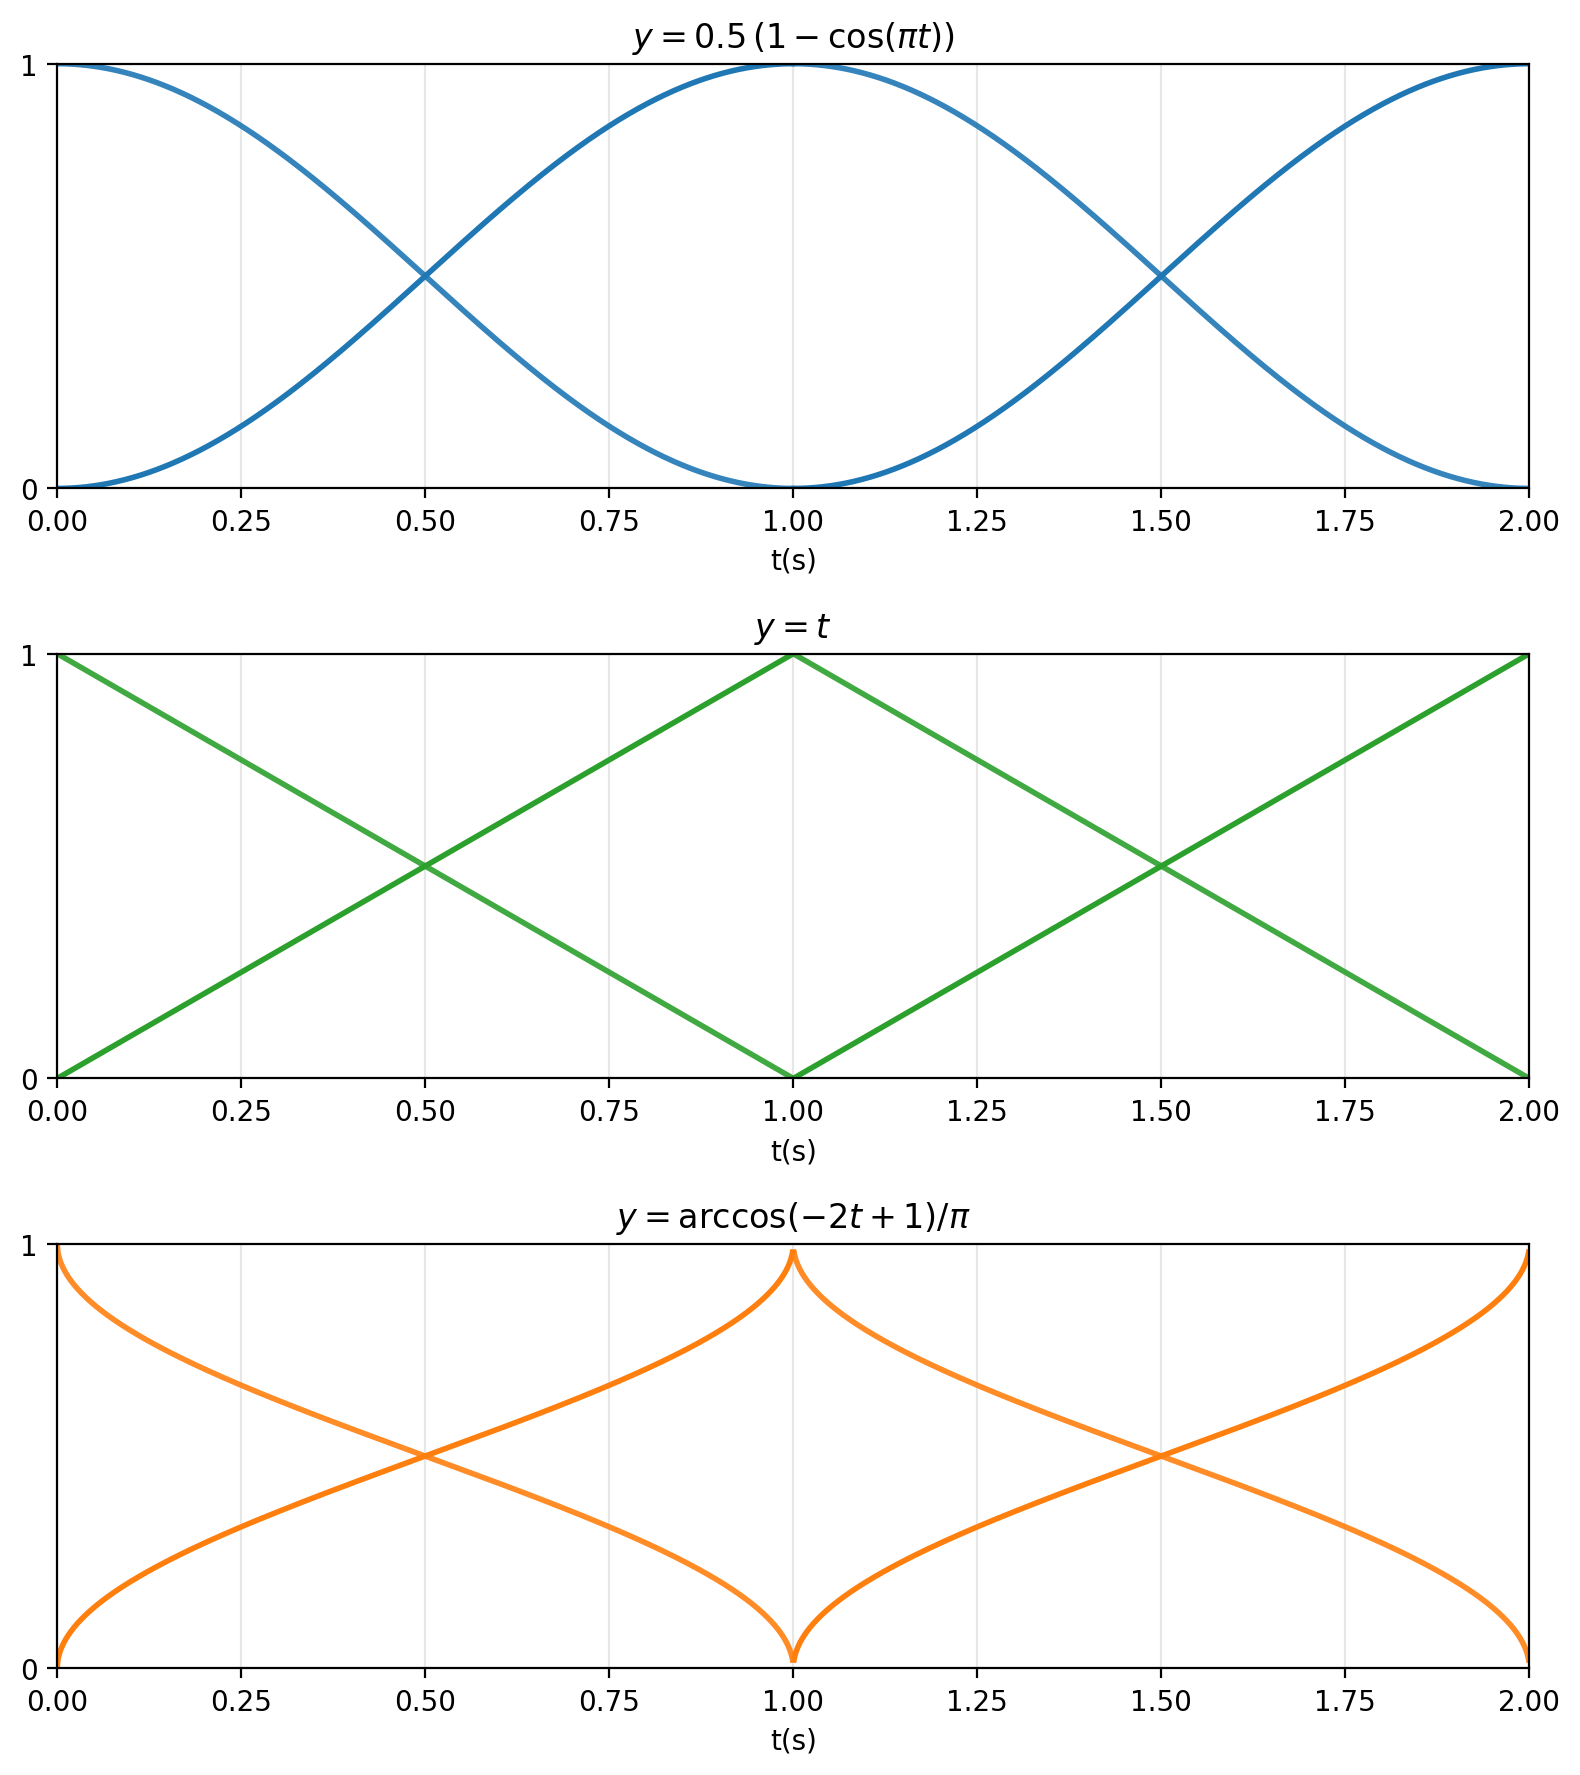
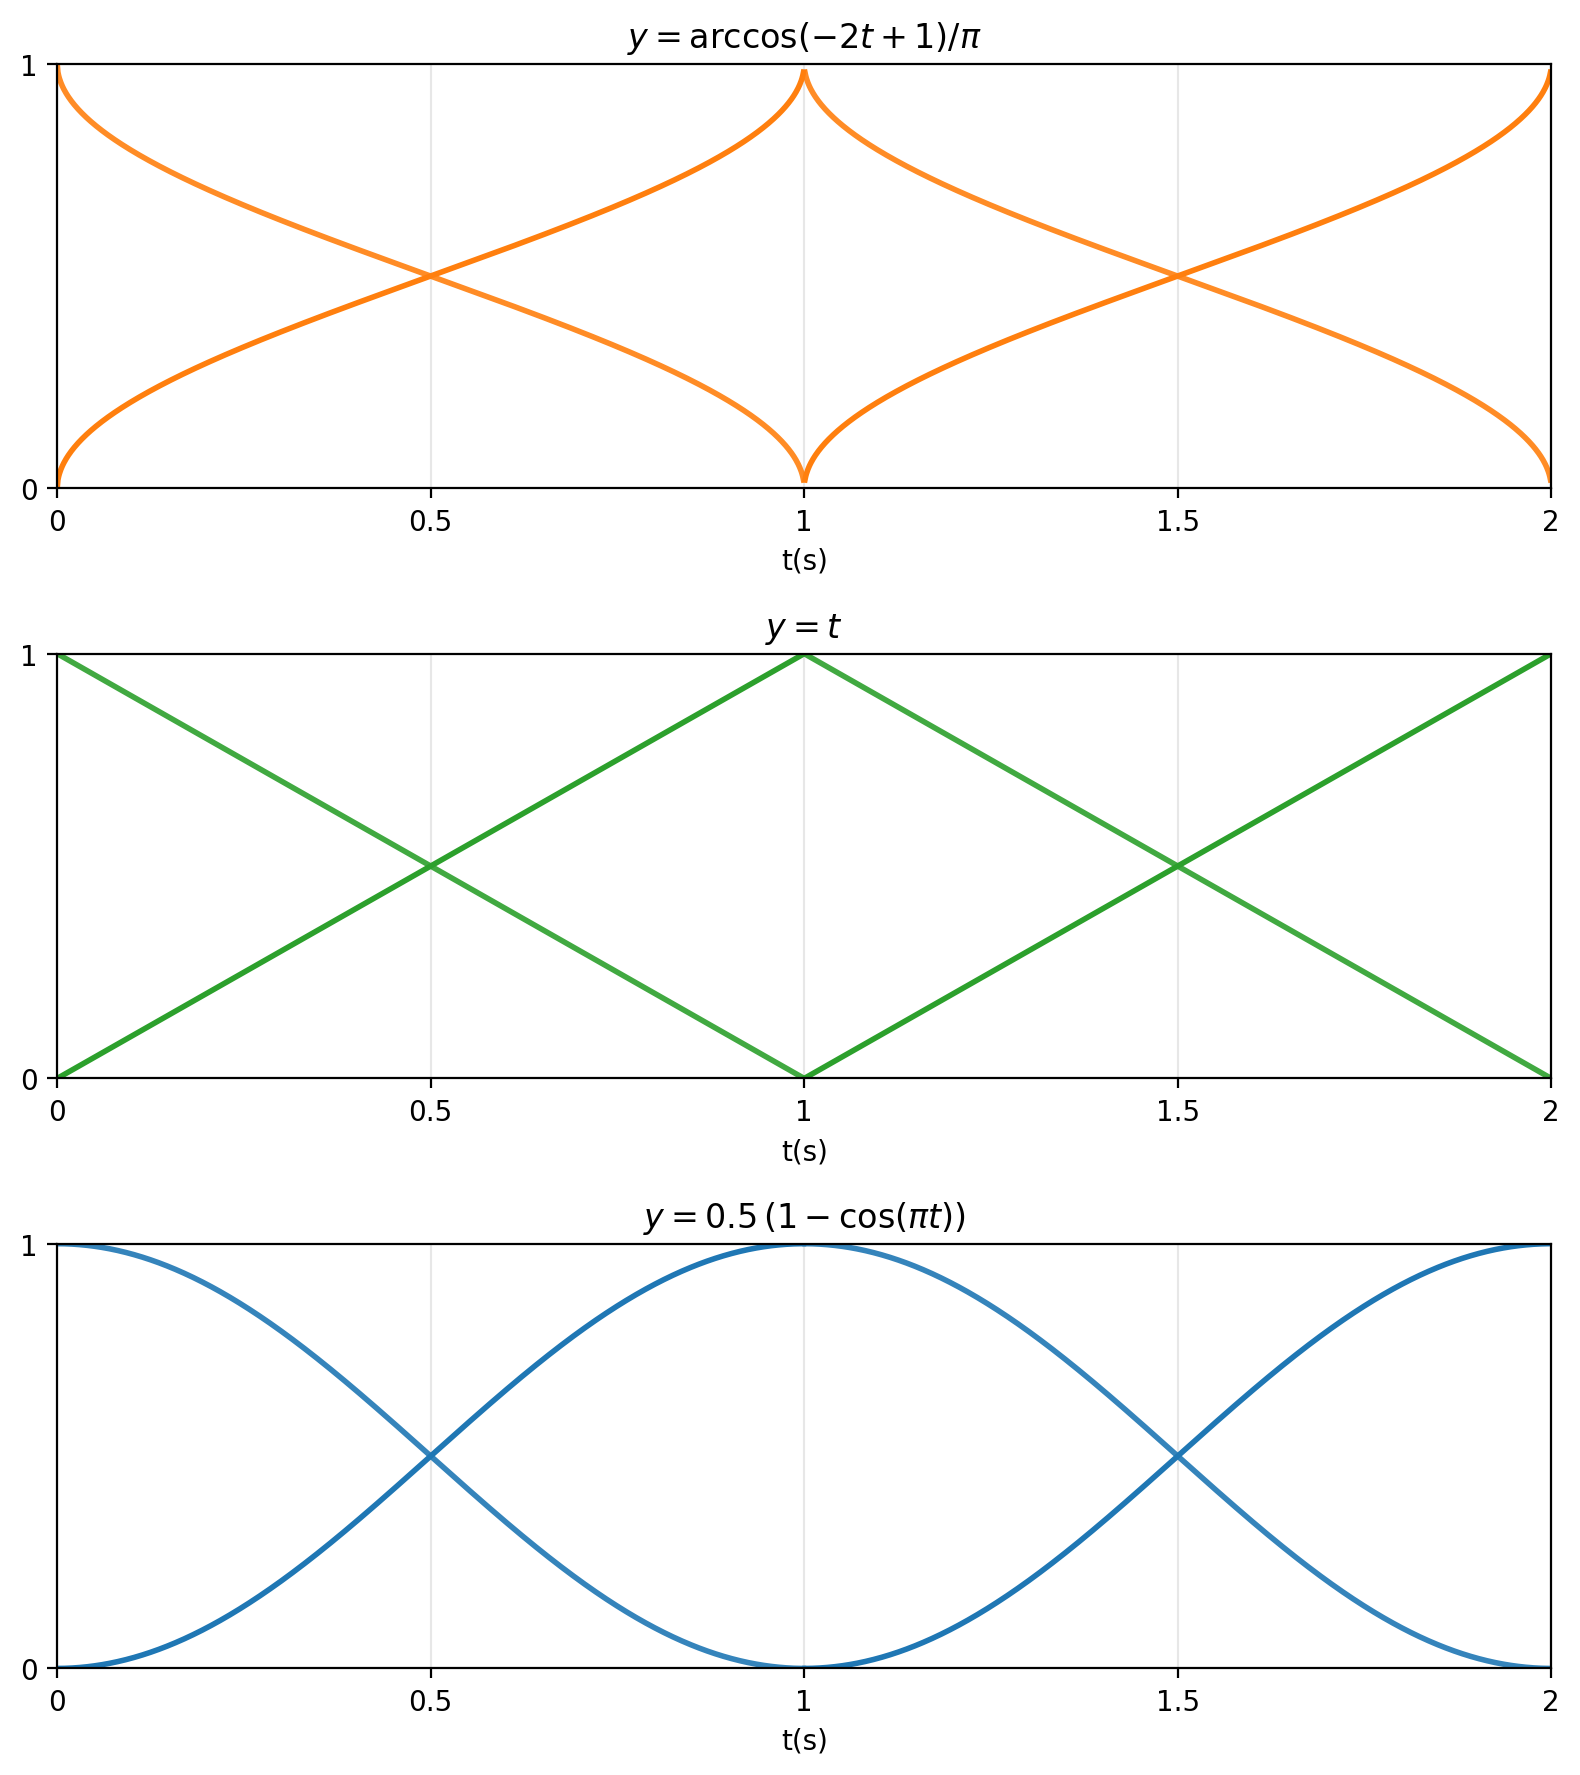
sfsdf

diff --git a/velocity_curve_analysis/function_mix_analysis_no_subcurve.py b/velocity_curve_analysis/function_mix_analysis_no_subcurve.py
@@ -1,0 +1,301 @@
+import pandas as pd
+import numpy as np
+import matplotlib.pyplot as plt
+import matplotlib.lines as mlines
+import os
+import glob
+from pathlib import Path
+from matplotlib.legend_handler import HandlerTuple, HandlerErrorbar
+from matplotlib.container import ErrorbarContainer
+
+
+# 设置中文字体
+plt.rcParams['font.sans-serif'] = ['SimHei', 'DejaVu Sans']
+plt.rcParams['axes.unicode_minus'] = False
+
+def load_function_mix_data(data_dir):
+    """加载FunctionMix数据"""
+    pattern = os.path.join(data_dir, "*ExperimentPattern_FunctionMix_ParticipantName_*.csv")
+    files = glob.glob(pattern)
+    
+    all_data = {}
+    for file in files:
+        # 从文件名提取参与者信息
+        filename = os.path.basename(file)
+        parts = filename.split('_')
+        
+        # 提取参与者名称
+        participant_idx = parts.index('ParticipantName') + 1
+        participant = parts[participant_idx]
+        
+        # 提取试验编号
+        trial_idx = parts.index('TrialNumber') + 1
+        trial_str = parts[trial_idx]
+        if trial_str.endswith('.csv'):
+            trial_str = trial_str.replace('.csv', '')
+        trial = int(trial_str)
+        
+        try:
+            df = pd.read_csv(file)
+            # 清理列名
+            df.columns = df.columns.str.strip()
+            df['Participant'] = participant
+            df['Trial'] = trial
+            df['Filename'] = filename
+            
+            if participant not in all_data:
+                all_data[participant] = {}
+            all_data[participant][trial] = df
+            
+            print(f"加载成功: {filename} - 参与者: {participant}, 试验: {trial}")
+        except Exception as e:
+            print(f"加载错误: {filename} - {e}")
+    
+    return all_data
+
+def plot_mixing_functions(ax, function_type, direction='forward'):
+    """绘制混合函数"""
+    x = np.linspace(0, 1, 100)
+    
+    if function_type == 'cos':
+        if direction == 'forward':
+            # cos: 0.5f * (1f - Mathf.Cos(Mathf.PI * x)) - 从0到1
+            y = 0.5 * (1 - np.cos(np.pi * x))
+        else:
+            # 从1到0变化
+            y = 0.5 * (1 + np.cos(np.pi * x))
+        title = 'Cos'
+        color = 'green'
+    elif function_type == 'linear':
+        if direction == 'forward':
+            # linear: x - 从0到1
+            y = x
+        else:
+            # 从1到0变化
+            y = 1 - x
+        title = 'Linear'
+        color = 'blue'
+    elif function_type == 'acos':
+        if direction == 'forward':
+            # acos: Mathf.Acos(-2f * x + 1f) / Mathf.PI - 从0到1
+            y = np.arccos(-2 * x + 1) / np.pi
+        else:
+            # 从1到0变化
+            y = 1 - np.arccos(-2 * x + 1) / np.pi
+        title = 'Acos '
+        color = 'darkred'
+    
+    ax.plot(x, y, color=color, linewidth=2)
+    ax.set_xlabel('t')
+    ax.set_ylabel('')
+    ax.set_title('')  # 移除标题
+    ax.grid(True, alpha=0.3)
+    ax.set_xlim(0, 1)
+    ax.set_ylim(0, 1)
+    ax.set_xticks([])  # 不显示任何横轴刻度
+    ax.set_yticks([0, 1])
+
+def extract_final_function_ratio(df):
+    """提取最终的FunctionRatio值"""
+    # 取最后20%的数据的平均值作为最终值
+    final_data = df.tail(int(len(df) * 0.2))
+    final_ratio = final_data['FunctionRatio'].iloc[-1]
+    return final_ratio
+
+def create_function_mix_plot(data_dir):
+    """创建FunctionMix分析图"""
+    print("加载FunctionMix数据...")
+    function_mix_data = load_function_mix_data(data_dir)
+    
+    if not function_mix_data:
+        print("没有找到FunctionMix数据")
+        return
+    
+    # 参与者顺序（根据截图）
+    participants_order = ['ONO', 'OMU', 'YAMA', 'HOU', 'LL']
+    participant_labels = ['A', 'B', 'C', 'D', 'E']
+    
+    # 创建图形：只保留右侧参与者数据散点图
+    fig = plt.figure(figsize=(12, 6))  # 宽度调整，去掉左侧空间
+    # 设置透明背景
+    fig.patch.set_facecolor('none')
+    fig.patch.set_alpha(0.0)
+    ax4 = plt.subplot(111)  # 单个子图占满整个图形
+    ax4.set_facecolor('none')
+    ax4.patch.set_alpha(0.0)
+    
+    # 收集所有数据用于计算y轴范围
+    all_ratios = []
+    
+    # 为每个参与者绘制散点图
+    # ABC使用一个颜色，DE使用另一个颜色
+    colors = ['#1f77b4', '#1f77b4', '#1f77b4', '#ff7f0e', '#ff7f0e']  # ABC蓝色，DE橙色
+    
+    error_legend_handle = None
+    for i, (participant, label) in enumerate(zip(participants_order, participant_labels)):
+        if participant in function_mix_data:
+            trials = function_mix_data[participant]
+            
+            # 提取每个试验的最终FunctionRatio值
+            ratios = []
+            for trial_num in sorted(trials.keys()):
+                df = trials[trial_num]
+                final_ratio = extract_final_function_ratio(df)
+                ratios.append(final_ratio)
+                all_ratios.append(final_ratio)
+            
+            # 计算中位数和误差
+            median_ratio = np.median(ratios)
+            std_ratio = np.std(ratios)
+            sem_ratio = std_ratio / np.sqrt(len(ratios))  # 标准误差
+            
+            # 绘制散点图，错开位置避免重叠
+            x_positions = np.linspace(-0.15, 0.15, len(ratios))  # 在标签位置左右错开
+            x_coords = [i + x_pos for x_pos in x_positions]
+            
+            # 绘制散点图（只在第一次绘制时添加标签用于图例）
+            if i == 0:
+                scatter = ax4.scatter(x_coords, ratios, color=colors[i], alpha=0.7, s=60, edgecolors='white', linewidth=1, label='Individual trials')
+            else:
+                ax4.scatter(x_coords, ratios, color=colors[i], alpha=0.7, s=60, edgecolors='white', linewidth=1)
+            
+            # 绘制中位数线和误差条（只在第一次绘制时添加标签用于图例）
+            if i == 0:
+                median_line = ax4.plot([i], [median_ratio], 'o', color=colors[i], markersize=10, markeredgecolor='black', markeredgewidth=2, label='Median')[0]
+                error_legend_handle = ax4.errorbar([i], [median_ratio], yerr=sem_ratio, color=colors[i], capsize=5, capthick=2, linewidth=2)
+            else:
+                ax4.plot([i], [median_ratio], 'o', color=colors[i], markersize=10, markeredgecolor='black', markeredgewidth=2)
+                ax4.errorbar([i], [median_ratio], yerr=sem_ratio, color=colors[i], capsize=5, capthick=2, linewidth=2)
+    
+    # 设置子图的属性
+    ax4.set_xlabel('Participant')
+    ax4.set_ylabel('')  # 去掉纵轴标签
+    ax4.set_title('Preferred mixing ratio by participant (median ± 95% CI)')
+    ax4.grid(False)  # 移除网格
+    ax4.set_xticks(range(len(participant_labels)))
+    ax4.set_xticklabels(participant_labels)
+    ax4.set_yticks([0.0, 0.1, 0.5, 0.9, 1.0])  # 只显示指定的刻度值
+    
+    # 合并图例（颜色分组的 trial + 实验元素说明）
+    blue_color = '#1f77b4'
+    orange_color = '#ff7f0e'
+    # 颜色分组的 trial 代理
+    h_trial_blue = mlines.Line2D([], [], color=blue_color, marker='o', linestyle='None', markersize=6, label='Trial (Acos preference group)')
+    h_trial_orange = mlines.Line2D([], [], color=orange_color, marker='o', linestyle='None', markersize=6, label='Trial (Cos preference group)')
+    # 实验元素代理
+    h_median_blue = mlines.Line2D([], [], color=blue_color, marker='o', linestyle='None', markersize=8, markeredgecolor='black', markeredgewidth=2, label='Median (outlined dot)')
+    h_median_orange = mlines.Line2D([], [], color=orange_color, marker='o', linestyle='None', markersize=8, markeredgecolor='black', markeredgewidth=2, label='')
+    # 图例中的误差棒：垂直 yerr，带端帽；中心用小的空心圆点，提升辨识度（仅用于图例，空数据不绘制到图上）
+    h_error = ax4.errorbar(
+        [0], [0], yerr=[[0.05], [0.05]],
+        fmt='o', mfc='white', mec='black', mew=1.2, ms=5,
+        ecolor='black', elinewidth=2, capsize=5, capthick=2,
+        label='Error bar (95% CI)'
+    )
+    # 2) 建立图例，让它把这条误差棒当作示例（会自动绘制竖线+上下短横线）
+    leg = ax4.legend(handler_map={type(h_error): HandlerErrorbar()})
+
+    # 3) 如果不想这条“代理误差棒”出现在图上，创建图例后把它从坐标轴移除
+    h_error[0].remove()                 # 中心的小圆点
+    for c in h_error[1]: c.remove()     # 上下两个端帽（短横线）
+    for col in h_error[2]: col.remove() # 竖直误差线(LineCollection)
+
+
+    median_pair = (h_median_blue, h_median_orange)
+    handles = [h_trial_blue, h_trial_orange, median_pair, h_error]
+    labels = ['Trial (Arccos preference group)', 'Trial (Cos preference group)', 'Median (outlined dot)', 'Error bar (95% CI)']
+    ax4.legend(
+        handles=handles,
+        labels=labels,
+        loc='upper right', bbox_to_anchor=(1.0, 1.0),
+        ncol=1, columnspacing=0.8, handletextpad=0.6, borderaxespad=0.3,
+        handler_map={tuple: HandlerTuple(ndivide=None, pad=0.3), ErrorbarContainer: HandlerErrorbar()}
+    )
+
+
+
+    # 分组强调：在 C 与 D 之间画虚线分隔（x=2.5），并在下方添加组标签
+    ax4.axvline(x=2.5, color='gray', linestyle='--', linewidth=1, alpha=0.6)
+    ax4.text(0.25, -0.12, 'A–C: Arccos preference', transform=ax4.transAxes, ha='center', va='top', fontsize=10)
+    ax4.text(0.875, -0.12, 'D–E: Cos preference', transform=ax4.transAxes, ha='center', va='top', fontsize=10)
+    
+    # 添加横线
+    horizontal_lines = [0.0, 0.1, 0.5, 0.9, 1.0]
+    for line_y in horizontal_lines:
+        if line_y in [0.0, 1.0]:
+            # 0.0和1.0的横线颜色为灰色
+            ax4.axhline(y=line_y, color='gray', alpha=0.6, linewidth=1)
+        else:
+            # 0.1, 0.5, 0.9的横线颜色为黑色
+            ax4.axhline(y=line_y, color='black', alpha=0.8, linewidth=1)
+    
+    # 在指定位置添加区域标注（统一黑色，配合背景色带）
+    ax4.text(-0.5, 0.1, 'Cos region (≤)', fontsize=10, ha='right', va='center', color='black')
+    ax4.text(-0.5, 0.5, 'Linear region (=)', fontsize=10, ha='right', va='center', color='black')
+    ax4.text(-0.5, 0.9, 'Arccos region (≥)', fontsize=10, ha='right', va='center', color='black')
+    # 移除左上角的文字说明，改为合并图例
+
+    regions = [(0.0, 0.1), (0.1, 0.5), (0.5, 0.9), (0.9, 1.0)]
+    colors  = ['#d0f0d0', '#f0f0ff', '#fff0f0', '#ffe0b3']  # 可以手工挑选
+    alphas  = [0.05, 0.2, 0.2, 0.05]  # 上下稍微深一点
+
+    for (ymin, ymax), color, a in zip(regions, colors, alphas):
+        ax4.axhspan(ymin, ymax, facecolor=color, alpha=a, zorder=0)
+
+    # 在右侧添加竖写标签
+    # 创建右侧的 twin 轴
+    ax_right = ax4.twinx()
+
+    # 设置右侧纵轴标签
+    ax_right.set_ylabel('Normalized Subjective response [arb. unit]',
+                        fontsize=12, rotation=270, labelpad=25)
+
+    # 隐藏右轴的刻度和刻度线（只保留标签）
+    ax_right.tick_params(right=False, labelright=False)
+
+    # 设置y轴范围
+    if all_ratios:
+        y_min = min(all_ratios) - 0.05
+        y_max = max(all_ratios) + 0.05
+        ax4.set_ylim(max(0, y_min), min(1, y_max))
+    
+    plt.tight_layout()
+    plt.savefig('function_mix_analysis.png', dpi=300, bbox_inches='tight', transparent=True)
+    plt.show()
+    
+    # 打印统计信息
+    print("\n=== FunctionMix分析结果 ===")
+    for i, (participant, label) in enumerate(zip(participants_order, participant_labels)):
+        if participant in function_mix_data:
+            trials = function_mix_data[participant]
+            ratios = []
+            for trial_num in sorted(trials.keys()):
+                df = trials[trial_num]
+                final_ratio = extract_final_function_ratio(df)
+                ratios.append(final_ratio)
+            
+            median_ratio = np.median(ratios)
+            mean_ratio = np.mean(ratios)
+            std_ratio = np.std(ratios)
+            
+            print(f"参与者 {label} ({participant}):")
+            print(f"  试验值: {[f'{r:.3f}' for r in ratios]}")
+            print(f"  中位数: {median_ratio:.3f}")
+            print(f"  平均值: {mean_ratio:.3f}")
+            print(f"  标准差: {std_ratio:.3f}")
+            print()
+    
+    print("FunctionMix分析图已保存为 function_mix_analysis_no_subcurve.png")
+
+def main():
+    """主函数"""
+    data_dir = "public/BrightnessFunctionMixAndPhaseData"
+    
+    if not os.path.exists(data_dir):
+        print(f"数据目录不存在: {data_dir}")
+        return
+    
+    create_function_mix_plot(data_dir)
+
+if __name__ == "__main__":
+    main() 

diff --git a/velocity_curve_analysis/SubFunctionGraphs_Cos_Acos_Linear.py b/velocity_curve_analysis/SubFunctionGraphs_Cos_Acos_Linear.py
@@ -42,23 +42,23 @@ def main() -> None:
     xticks = [0.0, 0.5, 1.0, 1.5, 2.0]
     xtick_labels = ['0', '0.5', '1', '1.5', '2']
 
-    # Plot 1: 0.5 * (1 - cos(pi * x)) and its complement (same color)
-    axes[0].plot(t, y_cos, linewidth=2.0, color=color_f1)
-    axes[0].plot(t, 1.0 - y_cos, linewidth=2.0, color=color_f1, alpha=0.9)
+    # Plot 3: arccos(-2x + 1) / pi (per period) and its complement (same color)
+    axes[0].plot(t, y_arccos, linewidth=2.0, color=color_f3)
+    axes[0].plot(t, 1.0 - y_arccos, linewidth=2.0, color=color_f3, alpha=0.9)
     axes[0].set_xlim(0.0, 2.0)
     axes[0].set_ylim(0.0, 1.0)
     axes[0].set_xlabel('t(s)')
     axes[0].set_xticks(xticks, xtick_labels)
     axes[0].set_yticks([0.0, 1.0], ['0', '1'])
     axes[0].grid(True, alpha=0.3)
-    axes[0].set_title(r"$y = 0.5\,(1 - \cos(\pi t))$")
+    axes[0].set_title(r"$y = \arccos(-2t + 1)/\pi$")
     # axes[0].legend(loc='best')
 
     # Plot 2: y = x (per period) and its complement (same color)
     axes[1].plot(t, y_linear, linewidth=2.0, color=color_f2)
     axes[1].plot(t, 1.0 - y_linear, linewidth=2.0, color=color_f2, alpha=0.9)
     axes[1].set_xlim(0.0, 2.0)
-    axes[1].t_ylim(0.0, 1.0)
+    axes[1].set_ylim(0.0, 1.0)
     axes[1].set_xlabel('t(s)')
     axes[1].set_xticks(xticks, xtick_labels)
     axes[1].set_yticks([0.0, 1.0], ['0', '1'])
@@ -66,17 +66,18 @@ def main() -> None:
     axes[1].set_title(r"$y = t$")
     # axes[1].legend(loc='best')
 
-    # Plot 3: arccos(-2x + 1) / pi (per period) and its complement (same color)
-    axes[2].plot(t, y_arccos, linewidth=2.0, color=color_f3)
-    axes[2].plot(t, 1.0 - y_arccos, linewidth=2.0, color=color_f3, alpha=0.9)
-    axes[2].set_xm(0.0, 2.0)
+
+    # Plot 1: 0.5 * (1 - cos(pi * x)) and its complement (same color)
+    axes[2].plot(t, y_cos, linewidth=2.0, color=color_f1)
+    axes[2].plot(t, 1.0 - y_cos, linewidth=2.0, color=color_f1, alpha=0.9)
+    axes[2].set_xlim(0.0, 2.0)
     axes[2].set_ylim(0.0, 1.0)
     axes[2].set_xlabel('t(s)')
     axes[2].set_xticks(xticks, xtick_labels)
     axes[2].set_yticks([0.0, 1.0], ['0', '1'])
     axes[2].grid(True, alpha=0.3)
-    axes[2].set_title(r"$y = \arccos(-2t + 1)/\pi$")
-    # axes[2].legend(loc='best')
+    axes[2].set_title(r"$y = 0.5\,(1 - \cos(\pi t))$")
+    # axes[0].legend(loc='best')
 
     plt.tight_layout()
 
@@ -92,3 +93,10 @@ def main() -> None:
 
 if __name__ == '__main__':
     main() 
+
+
+
+
+
+
+
